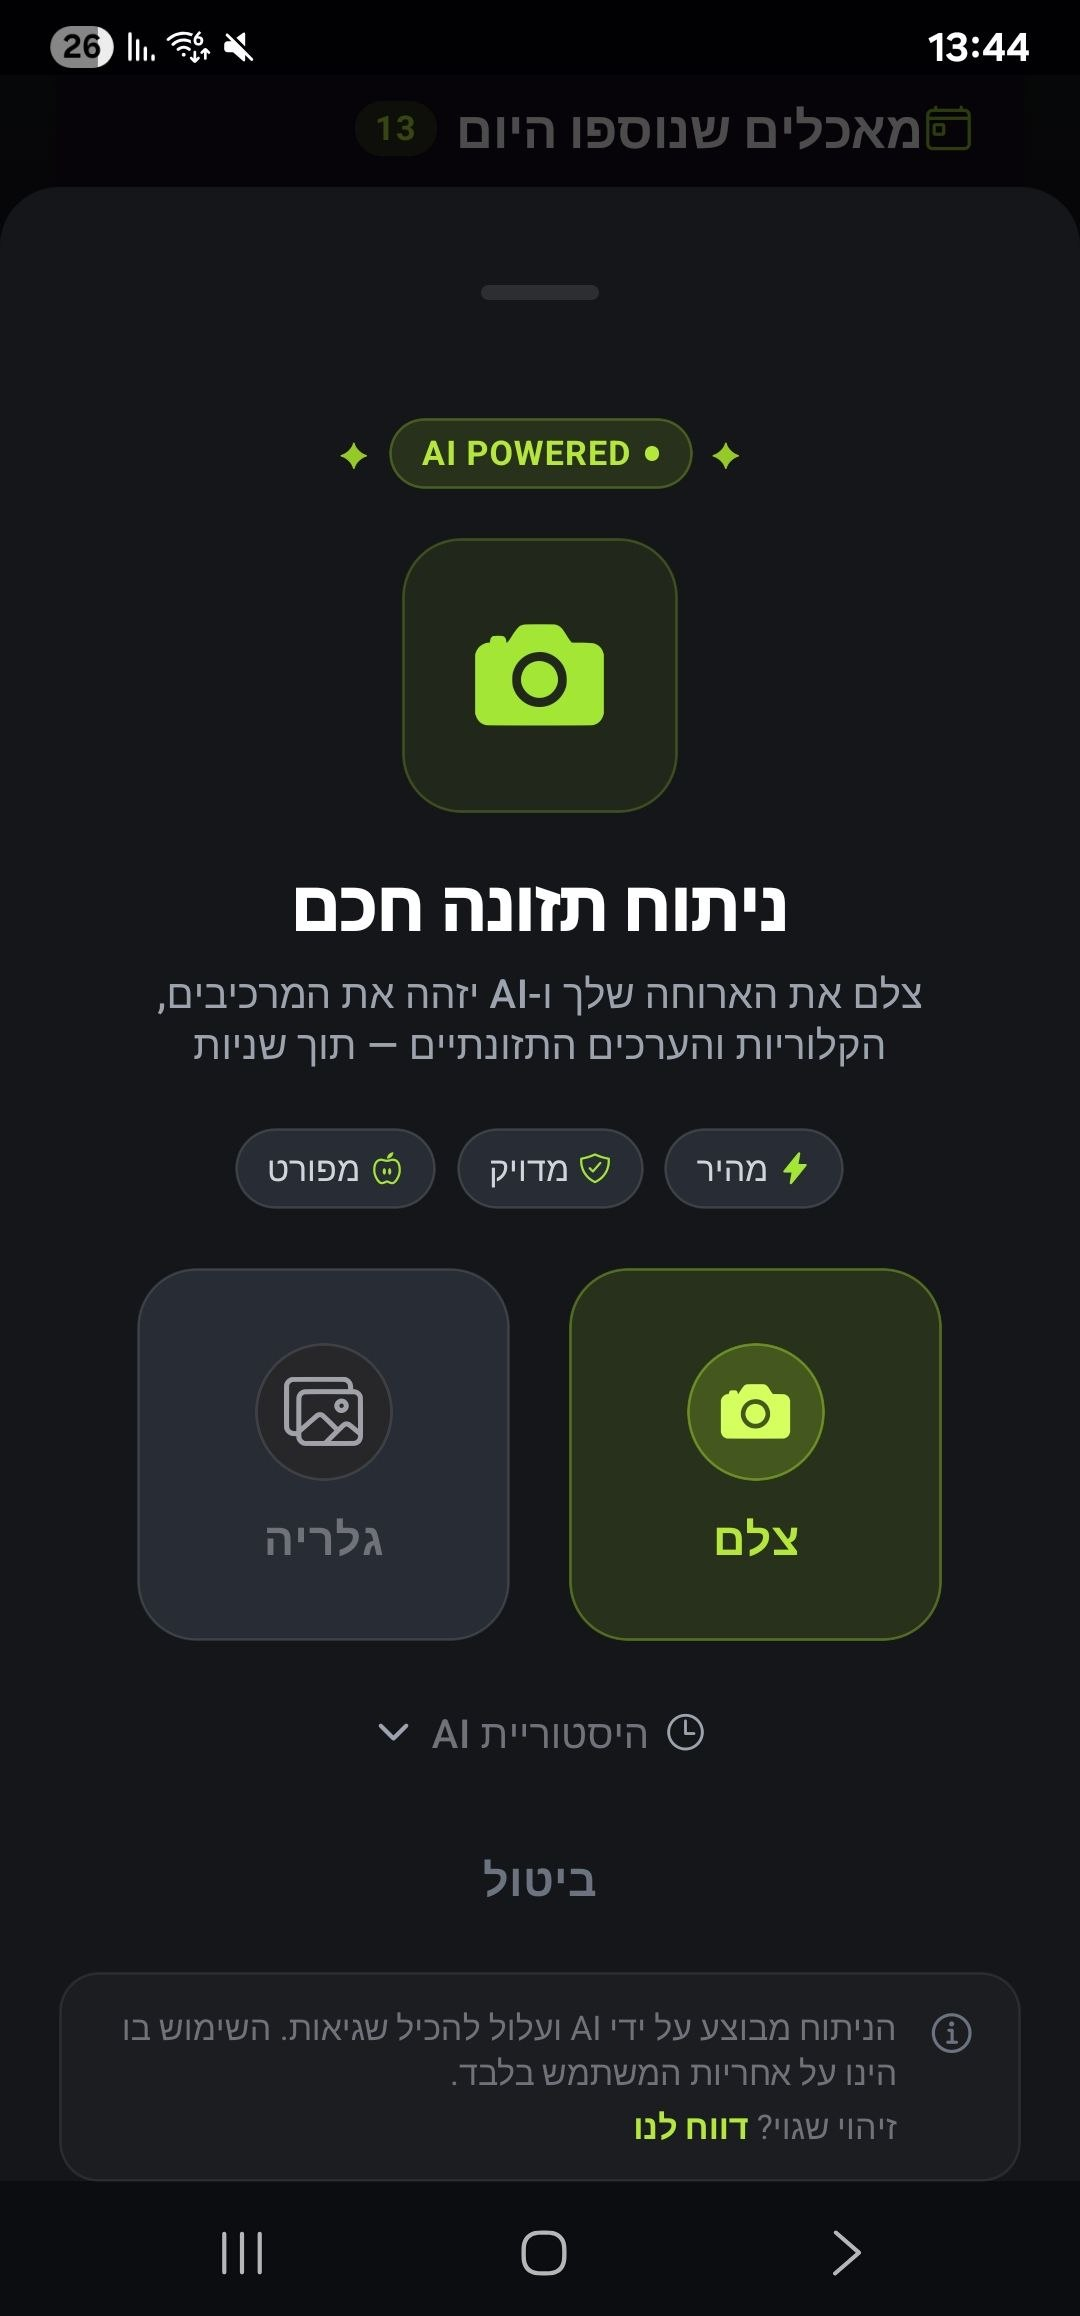
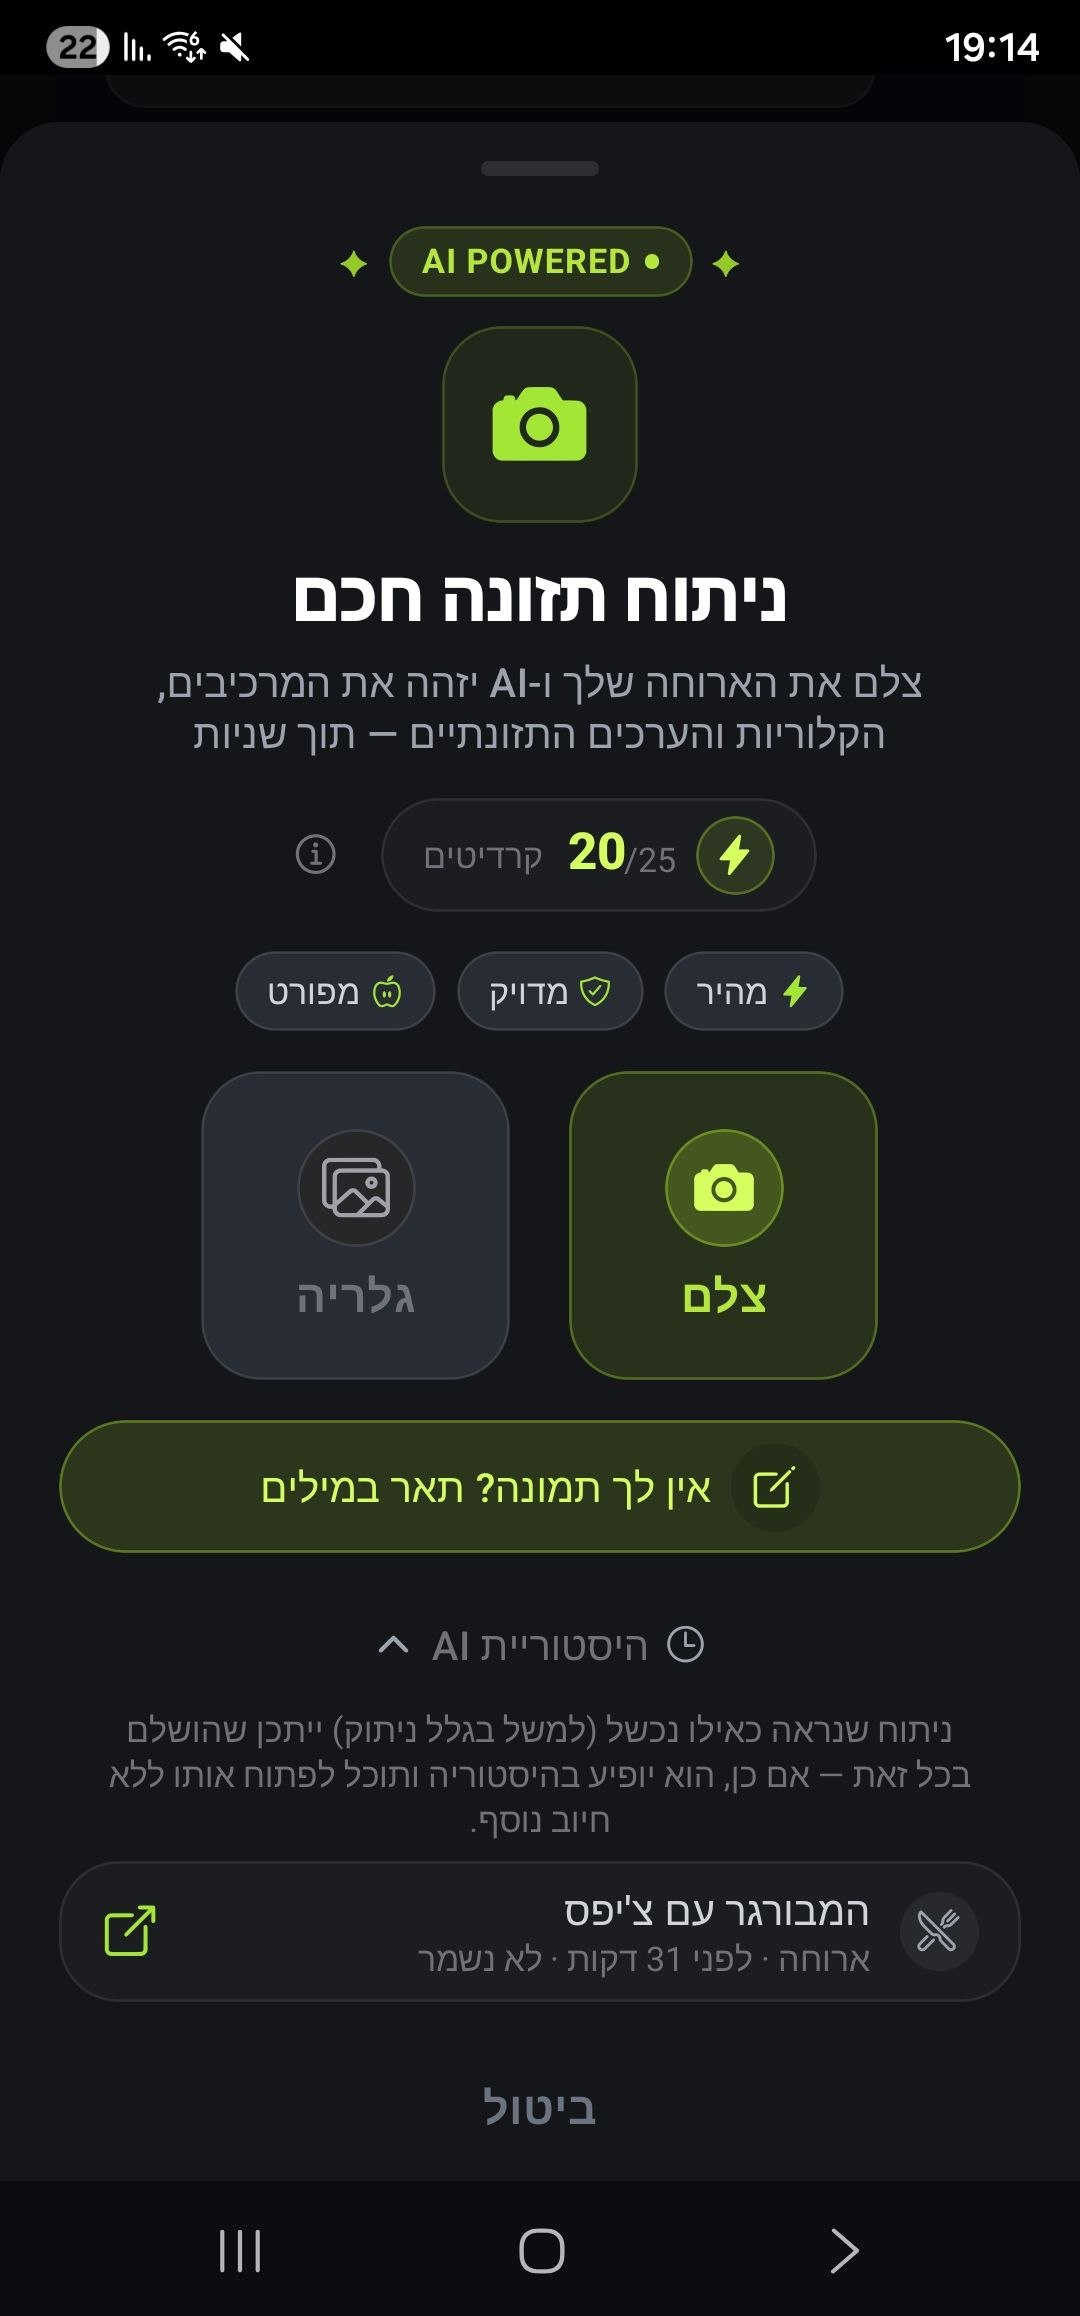
feat(site): AI meal analysis steps with description input, live analysis and explained result

diff --git a/index.html b/index.html
@@ -136,9 +136,30 @@
           <li class="step">
             <div class="step-copy">
               <h3>מצלמים, וה־AI מנתח</h3>
-              <p>מצלמים את הארוחה, והאפליקציה מזהה את המרכיבים, הקלוריות והערכים התזונתיים תוך שניות. הניתוח נעשה על ידי AI ועלול להכיל אי־דיוקים, ותמיד אפשר לתקן.</p>
+              <p>מצלמים את הארוחה או בוחרים תמונה מהגלריה, והאפליקציה מזהה את המרכיבים, הקלוריות והערכים התזונתיים תוך שניות. אין תמונה? אפשר פשוט לתאר את הארוחה במילים.</p>
             </div>
-            <img class="step-shot" src="images/screens/w640/ai-scan.jpg" alt="מסך ניתוח תזונה חכם: צילום או בחירה מהגלריה" width="640" height="1372" loading="lazy">
+            <img class="step-shot" src="images/screens/w640/ai-scan.jpg" alt="מסך ניתוח תזונה חכם: צילום, בחירה מהגלריה או תיאור הארוחה במילים" width="640" height="1372" loading="lazy">
+          </li>
+          <li class="step">
+            <div class="step-copy">
+              <h3>תמונה, תיאור, או שניהם</h3>
+              <p>מוסיפים לתמונה תיאור קצר, כמו משקל המנה או כמה יחידות אכלתם, וה־AI מעריך כמויות ומרכיבים שלא רואים בתמונה. אפשר גם לשלוח תיאור בלבד, בלי תמונה בכלל.</p>
+            </div>
+            <img class="step-shot" src="images/screens/w640/ai-describe.jpg" alt="תמונת המבורגר וצ׳יפס עם תיאור כתוב: הקציצה הייתה 200 גרם ואכלתי 4 חתיכות צ׳יפס" width="640" height="1372" loading="lazy">
+          </li>
+          <li class="step">
+            <div class="step-copy">
+              <h3>רואים את הסוכן עובד</h3>
+              <p>שלב אחרי שלב: הבקשה מתקבלת, הסוכן מנתח את התמונה, והמרכיבים שהוא מזהה מוצגים על המסך בזמן אמת, עד שהערכים מחושבים ונשמרים.</p>
+            </div>
+            <img class="step-shot" src="images/screens/w640/ai-analyzing.jpg" alt="מסך שלבי הניתוח: הבקשה התקבלה והתמונה נותחה, והמרכיבים שזוהו מופיעים בזמן אמת: לחמניית המבורגר, קציצת בקר, חסה, עגבנייה, בצל סגול, ביצת עין, צ׳יפס, קטשופ ומיונז" width="640" height="1372" loading="lazy">
+          </li>
+          <li class="step">
+            <div class="step-copy">
+              <h3>התוצאה, עם הסבר</h3>
+              <p>הסוכן מסביר במילים מה זיהה, מה לקח מהתיאור שלכם ומה העריך בעצמו, ולצד ההסבר מופיעים הקלוריות והמאקרו של הארוחה. תמיד אפשר לערוך את הערכים ואת הכמויות לפני ההוספה.</p>
+            </div>
+            <img class="step-shot" src="images/screens/w640/ai-result.jpg" alt="תוצאות ניתוח ה־AI: הסבר כתוב של הסוכן על ארוחת המבורגר וצ׳יפס, 1007 קלוריות ופירוט המאקרו" width="640" height="1372" loading="lazy">
           </li>
           <li class="step">
             <div class="step-copy">
